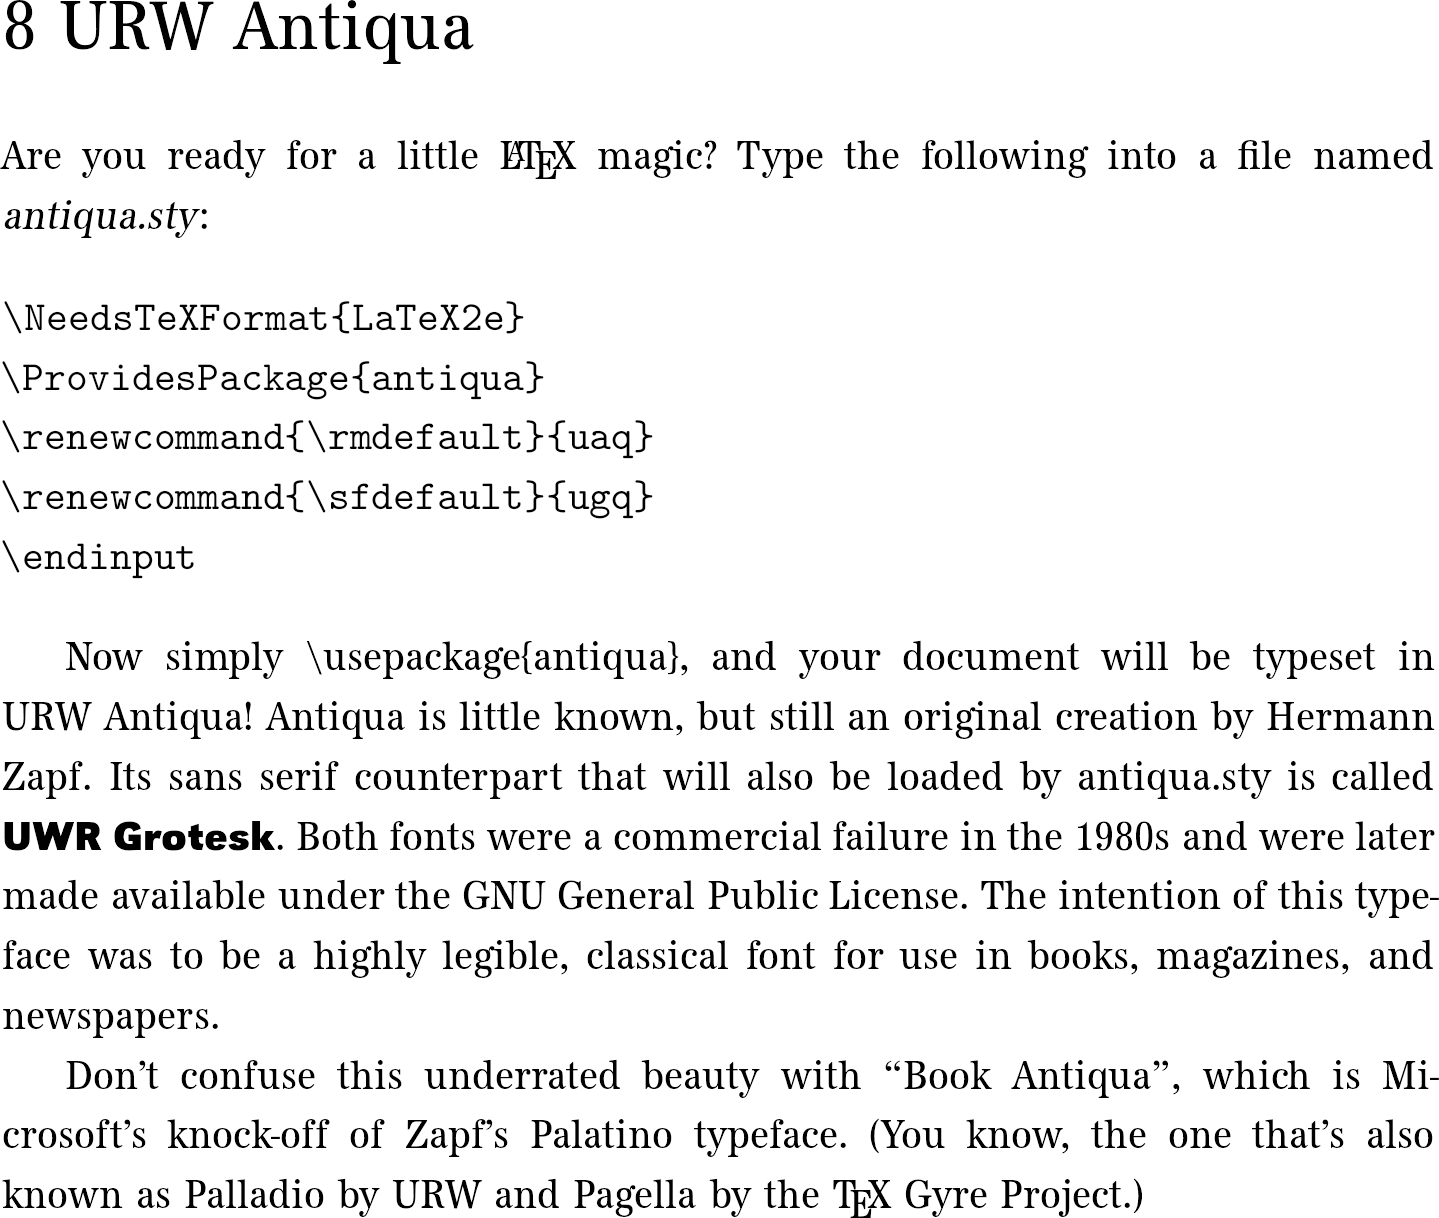
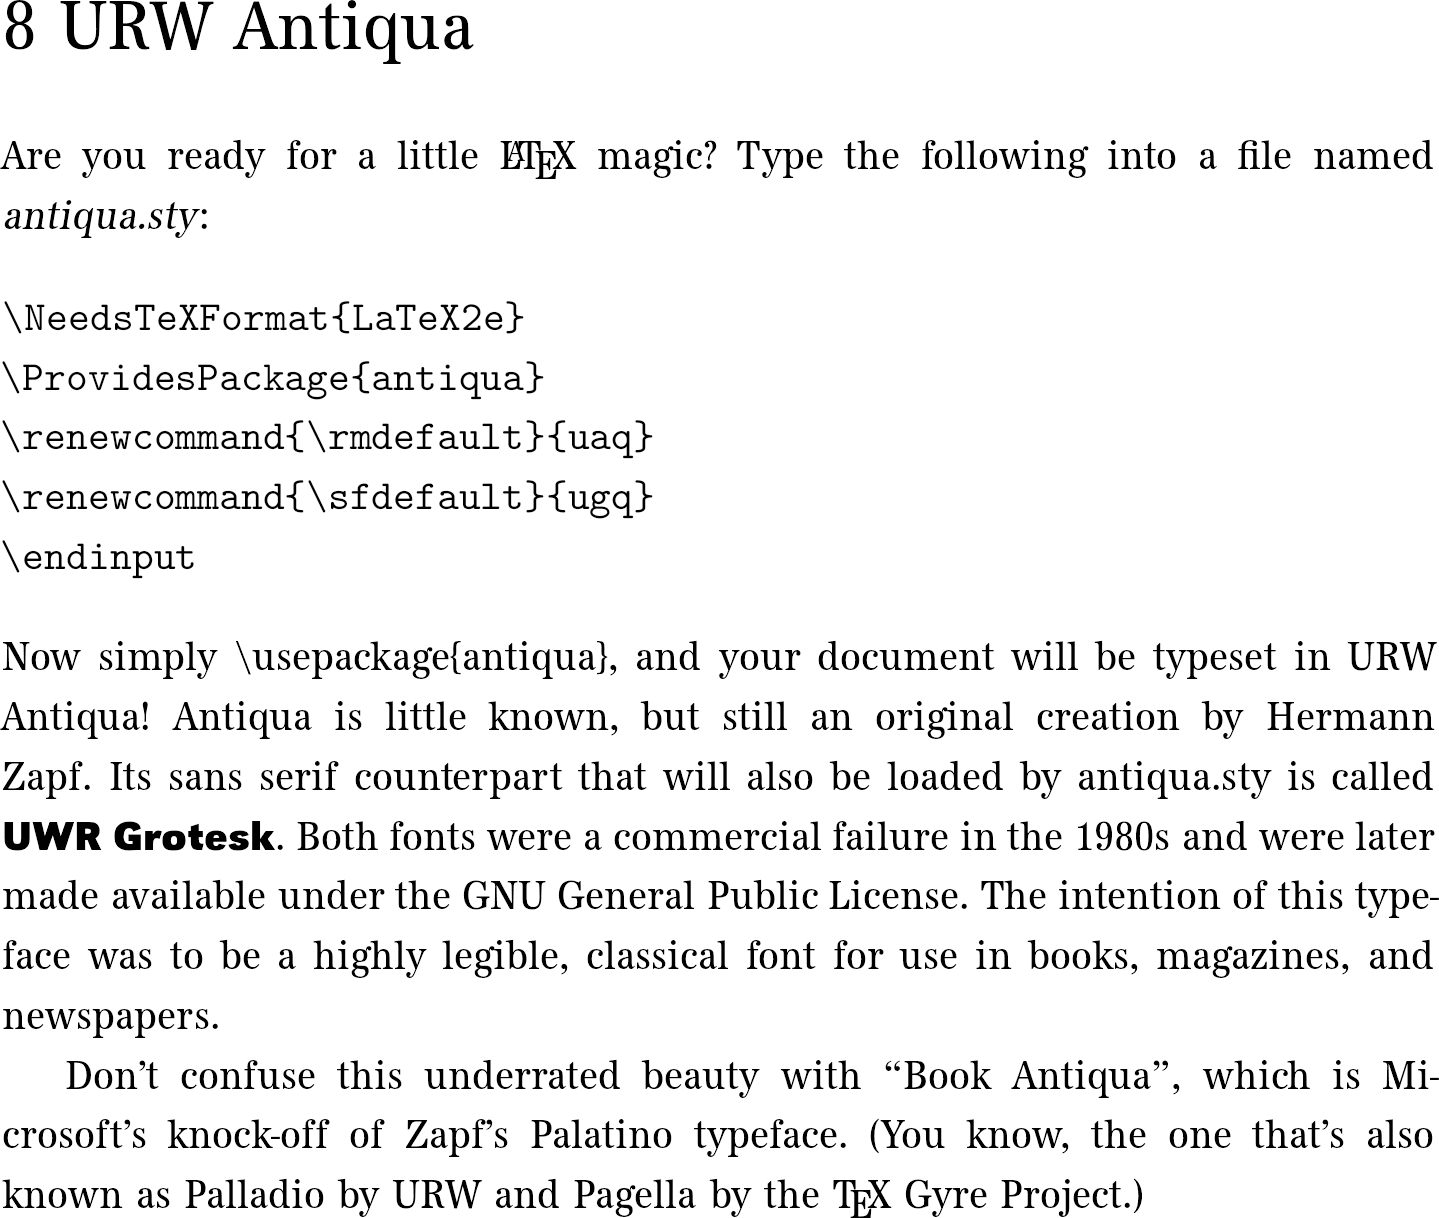
spelling corrections

Changed region(s): [[0.0, 0.5304, 1.0, 0.624]]

diff --git a/bera.tex b/bera.tex
@@ -10,9 +10,11 @@
 \noindent
 {\LARGE 9 Bitstream Vera}\\
 ~\\
-The digital revolution demanded types that looked consistent and readable even when viewed at lower resolutions. This gave rise to a square-looking and widely spaced new family of fonts, of which Bitstream Charter was the first real example. After Charter's success, the Bitstream foundry worked together with the Gnome Foundation to produce Bitstream Vera, a serif font specifically designed for low resolution computer screens. The large x-height and wide, open letters make Vera easy to read even at very small sizes.
+The digital revolution demanded types that looked consistent and readable even when viewed at lower resolutions. This gave rise to a square-looking and widely spaced new family of fonts, of which Bitstream Charter and Adobe Utopia were the first real examples. After Charter's success, the Bitstream foundry worked together with the Gnome Foundation to produce Bitstream Vera, a serif font specifically designed for low resolution computer screens. The large x-height and wide, open letters make Vera easy to read even at very small sizes.
 
-The latest incarnation in the category of ``display serif fonts'' is the DejaVu series of fonts, which have mostly replaced the default Vera in most Linux distributions. If you like this type of font, closely compare the packages \texttt{charter}, \texttt{bera}, and \texttt{dejavu}.
-
+\fontsize{9pt}{1em}
+{\fontfamily{DejaVuSerif-TLF}\selectfont
+The latest incarnation of Vera is the DejaVu font family, which have mostly replaced the default Vera in most Linux distributions. Although Wikipedia states that DejaVu ``maintains the original look and feel'' of Vera, I myself cannot find \emph{any} visual difference between \textbackslash{}usepackage\{bera\} and \textbackslash{}usepackage\{dejavu\}. To illustrate, this paragraph is set in 9pt DejaVu, while the previous paragraph is set in 10pt Vera. Really!
+}
 
 \end{document}

diff --git a/libertine.tex b/libertine.tex
@@ -2,7 +2,7 @@
 \usepackage{microtype}
 \usepackage[T1]{fontenc}
 \usepackage{libertine}
-\usepackage{anyfontsize}
+%\usepackage{anyfontsize}
 \pagestyle{empty}
 \linespread{1.2}
 \begin{document}
@@ -23,18 +23,16 @@ this typeface, because Libertine doesn't set the font encoding by default.
 %In general it's a good practice to always
 %specify the font encoding (T1 for all the fonts on this page) yourself.
 
-By the way, Libertine is the font used in the Wikipedia
-% {\fontsize{11.3}{0}\selectfont\useTextGlyph{fxl}{V.alt}\hspace{-3.6pt}\useTextGlyph{fxl}{V.alt}}\hspace{-.5pt}{\fontsize{11}{10}\selectfont\sc ikipedi}A
+By the way, Libertine is the font used in the
+{\fontsize{11.3}{0}\selectfont V\hspace{-4.6pt}V}\hspace{-.5pt}{\fontsize{11}{10}\selectfont\sc ikipedi}A
 logo.
 
-\sf
-The sans serif family (used in this paragraph) gets also set by
-\textbackslash usepackage\{libertine\}. This family is called Biolinum and is what software
-developers would call a \emph{beta version}---not yet suited for production
-use. It looks a little like Zapf's famous Optima typeface, due to the
-application of subtle stresses that produce the suggestion of a glyphic
-serif. Bio\-linum goes even further in this by featuring real (although
-petite) serifs at the end of some strokes. Let's see how the development will
-proceed...
+\sf The sans serif family (used in this paragraph) set by
+\textbackslash usepackage\{libertine\} is called Biolinum. As you can
+see, it's perhaps the most beautiful sans serif typeface available to
+\LaTeX{} users. It looks a little like Zapf's Optima, due to
+the application of subtle stresses that produce the suggestion of a
+glyphic serif. Bio\-linum goes even further in this by featuring real
+(although petite) serifs at the end of some strokes.
 
 \end{document}

diff --git a/boisik.tex b/boisik.tex
@@ -1,6 +1,7 @@
 \documentclass{article}
 \usepackage{microtype}
 \usepackage[OT1]{fontenc}
+\usepackage{librebaskerville}
 \usepackage{boisik}
 \usepackage{mflogo}
 \usepackage[utf8]{inputenc}
@@ -11,14 +12,21 @@
 \noindent
 {\LARGE $10$ Boisik}~\\
 ~\\
-Boisik is without a doubt the ugliest font available in any \LaTeX distribution.
-One look at this paragraph and you'll agree that the last place in this Top 10 is a well-deserved one.
+Boisik is without a doubt the ugliest font available in the \LaTeX{}
+distribution.  One look at this paragraph and you'll agree that the
+last place in this Top 10 is a well-deserved one.
 
-However, Boisik is very much worth mentioning because it has completely been written in the archaic \MF{} system.
-That's right, every parameter of this font is globally adjustable, and every font size has different glyphs.
+However, Boisik is very much worth mentioning because it has
+completely been written in the archaic \MF{} system.  That's right,
+every parameter of this font is globally adjustable, and every font
+size has different glyphs.  Boisik is inspired by the classic 18th
+century {\librebaskerville\small Baskerville}, which is itself
+available with \textbackslash{}usepackage\{librebaskerville\}. Boisik
+can be selected by \textbackslash{}usepackage\{boisik\}.
 
-Boisik is a tribute to the original Computer Modern typeface, and it's ugliness only underwrites the geniousness
-of Knuth's creation.
+Boisik
+is a tribute to the original Computer Modern typeface, and it's
+ugliness only underwrites the geniousness of Knuth's creation.
 
 
 \end{document}

diff --git a/lmodern.tex b/lmodern.tex
@@ -17,7 +17,7 @@
 The users of any \TeX{} system get the Computer Modern typeface by default in
 all their documents.  This idiosyncratic font makes \TeX{} documents
 instantly recognizable to anyone who's ever used this system and instantly
-impresses anyone else with it's timeless design.  It has very high contrast
+impresses anyone else with its timeless design.  It has very high contrast
 between thick and thin elements, very consistent and characteristic
 strokes, and relatively short ascenders and descenders.  Of course, it's
 classified as ``modern''.

diff --git a/antiqua.tex b/antiqua.tex
@@ -20,6 +20,7 @@ Are you ready for a little \LaTeX{} magic? Type the following into a file named 
 \endinput
 \end{verbatim}
 
+\noindent
 Now simply \textbackslash{}usepackage\{antiqua\}, and your document
 will be typeset in URW Antiqua! Antiqua is little known, but still an
 original creation by Hermann Zapf. Its sans serif counterpart that
